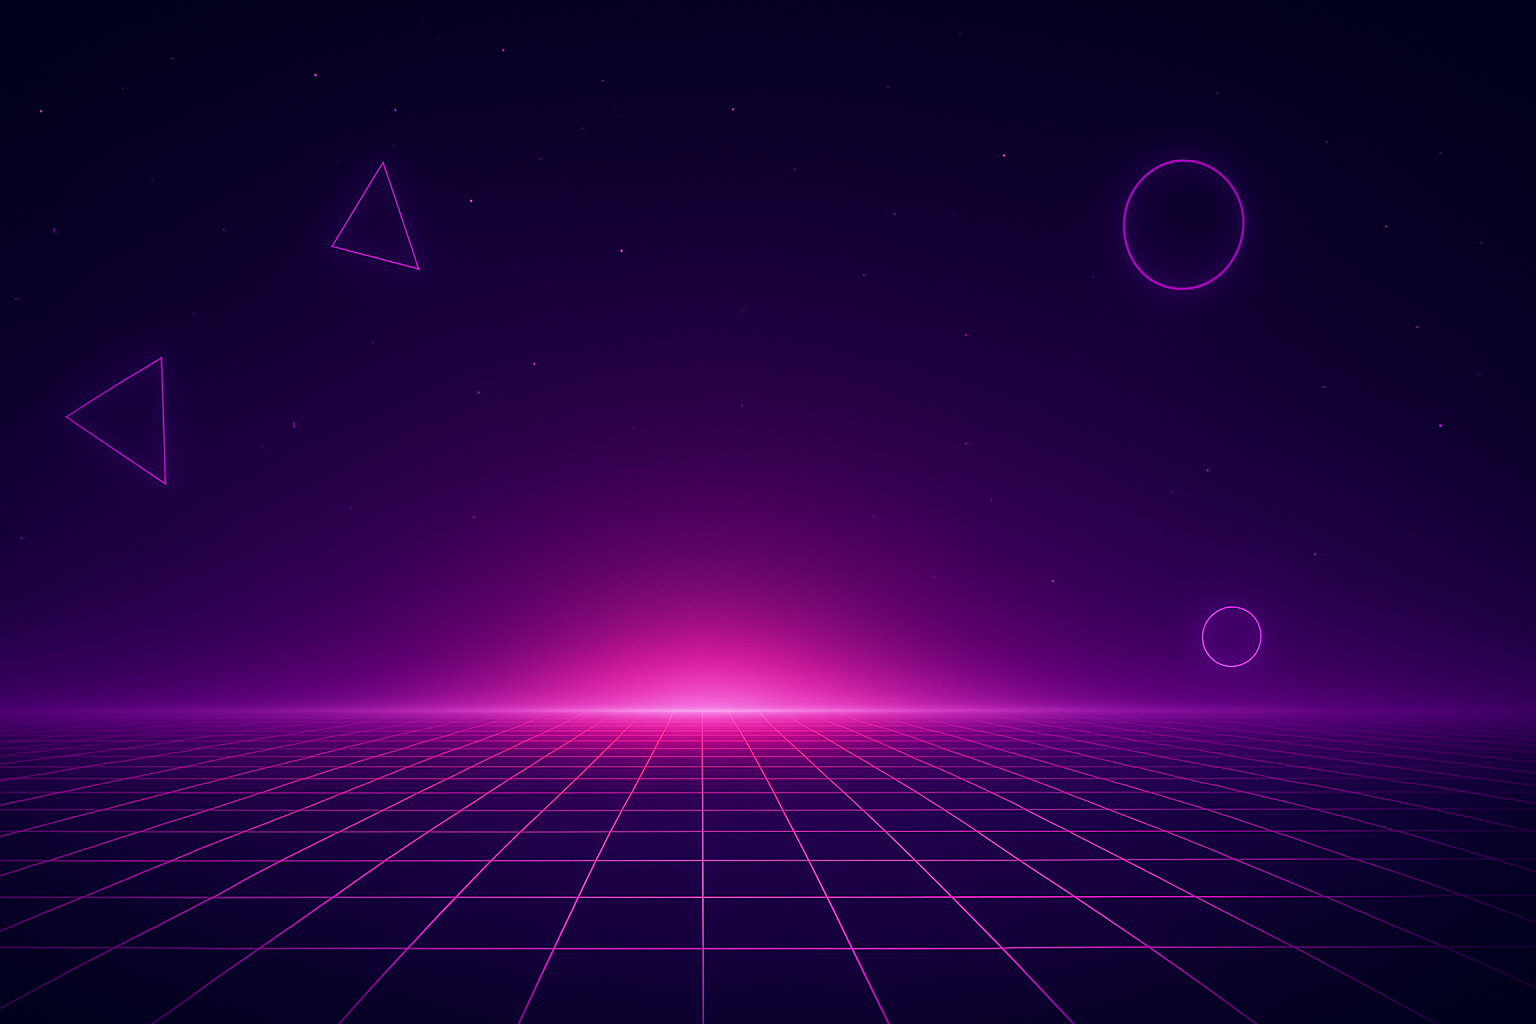
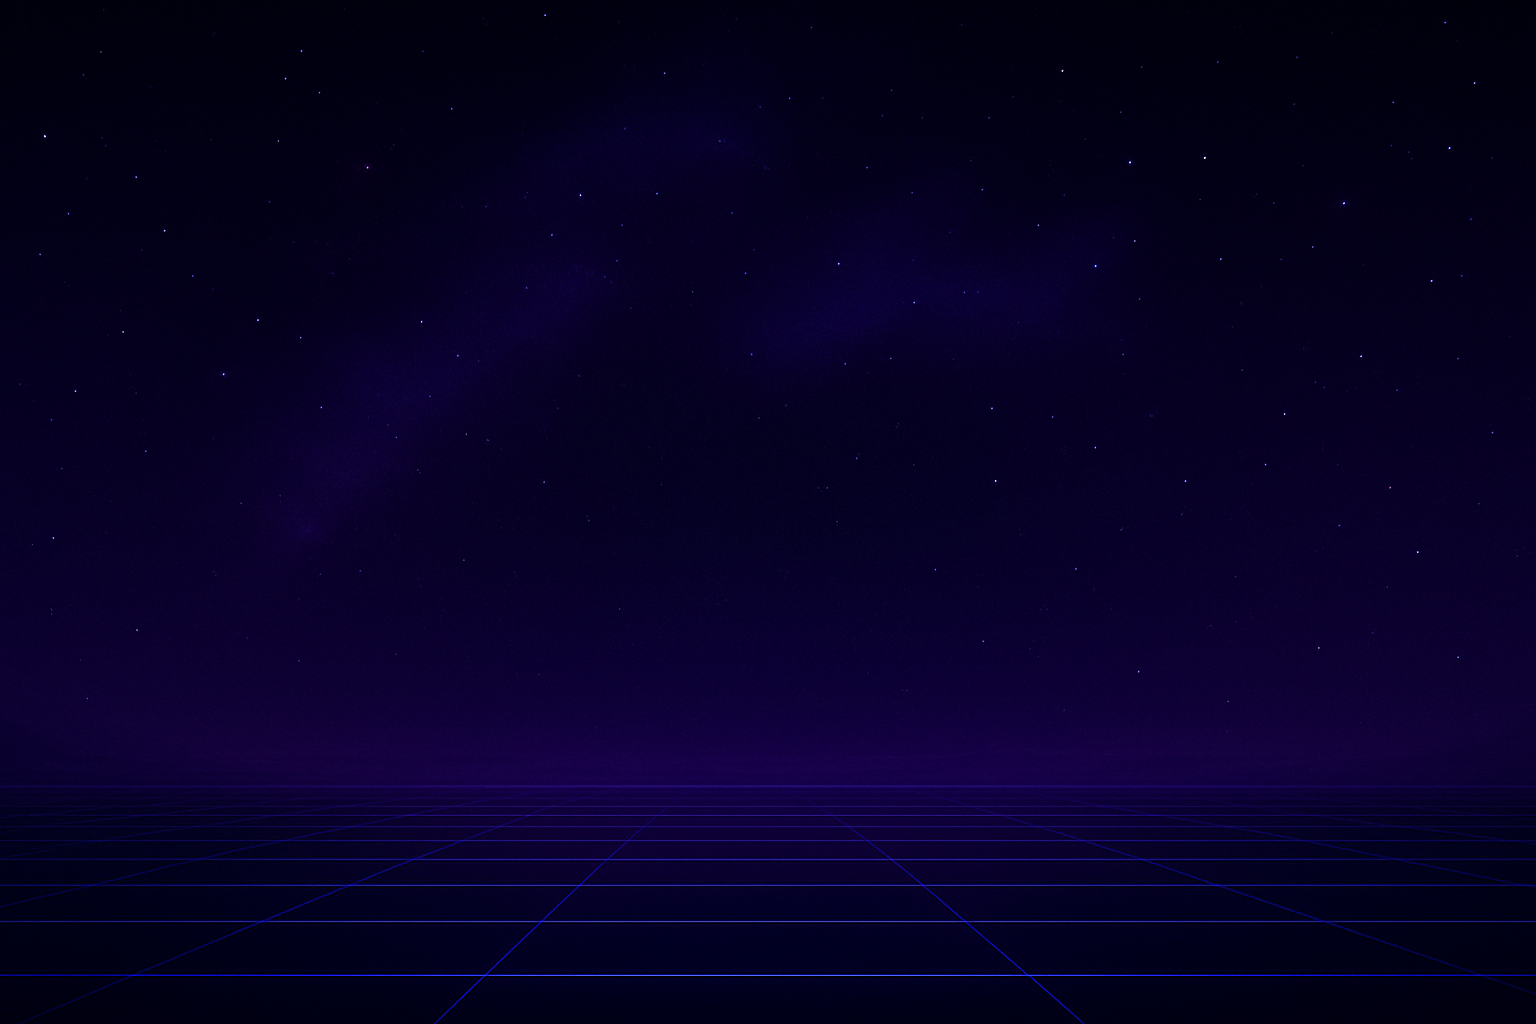
ANGULAR TERMINADO !!

diff --git a/ufo-battle-angular/src/app/components/home/home.html b/ufo-battle-angular/src/app/components/home/home.html
@@ -1,7 +1,7 @@
 <main class="container mt-5 text-center centrate">
   <div class="two-columns" >
     <div class="column">
-      <img  src="imgs/logo_v2.png" alt="UFO" style="width:100%; height:auto;" />
+      <img src="imgs/logoo.png" alt="UFO" style="width:90%; height:auto;" />
     </div>
 
     <div class="column img-back">
@@ -13,8 +13,7 @@
         Desafía tus reflejos y alcanza la máxima puntuación para coronarte como el mejor superando al resto de jugadores.
       </p>
 
-      <a class="glow a-play" routerLink="/play">PLAY!</a>
+      <a class="glow a-play" routerLink="play">PLAY!</a>
     </div>
   </div>
 </main>
-

diff --git a/ufo-battle-angular/src/app/components/play/play.ts b/ufo-battle-angular/src/app/components/play/play.ts
@@ -54,10 +54,12 @@ constructor(public api: ApiService, private router: Router, private cdr: ChangeD
   }
 
   ngAfterViewInit() {
+    document.body.classList.add('canva-game');
     setTimeout(() => this.startGame(), 0);
   }
 
   ngOnDestroy() {
+    document.body.classList.remove('canva-game');
     this.cleanUp();
   }
 

diff --git a/ufo-battle-angular/src/styles.scss b/ufo-battle-angular/src/styles.scss
@@ -333,7 +333,7 @@ main.container-card {
 /* JUEGO */
 
 .canva-game {
-  background-image: url('imgs/fondo_2.png');
+  background-image: url('/imgs/fondo.png');
   background-size: cover;
   background-position: center;
   background-repeat: no-repeat;
